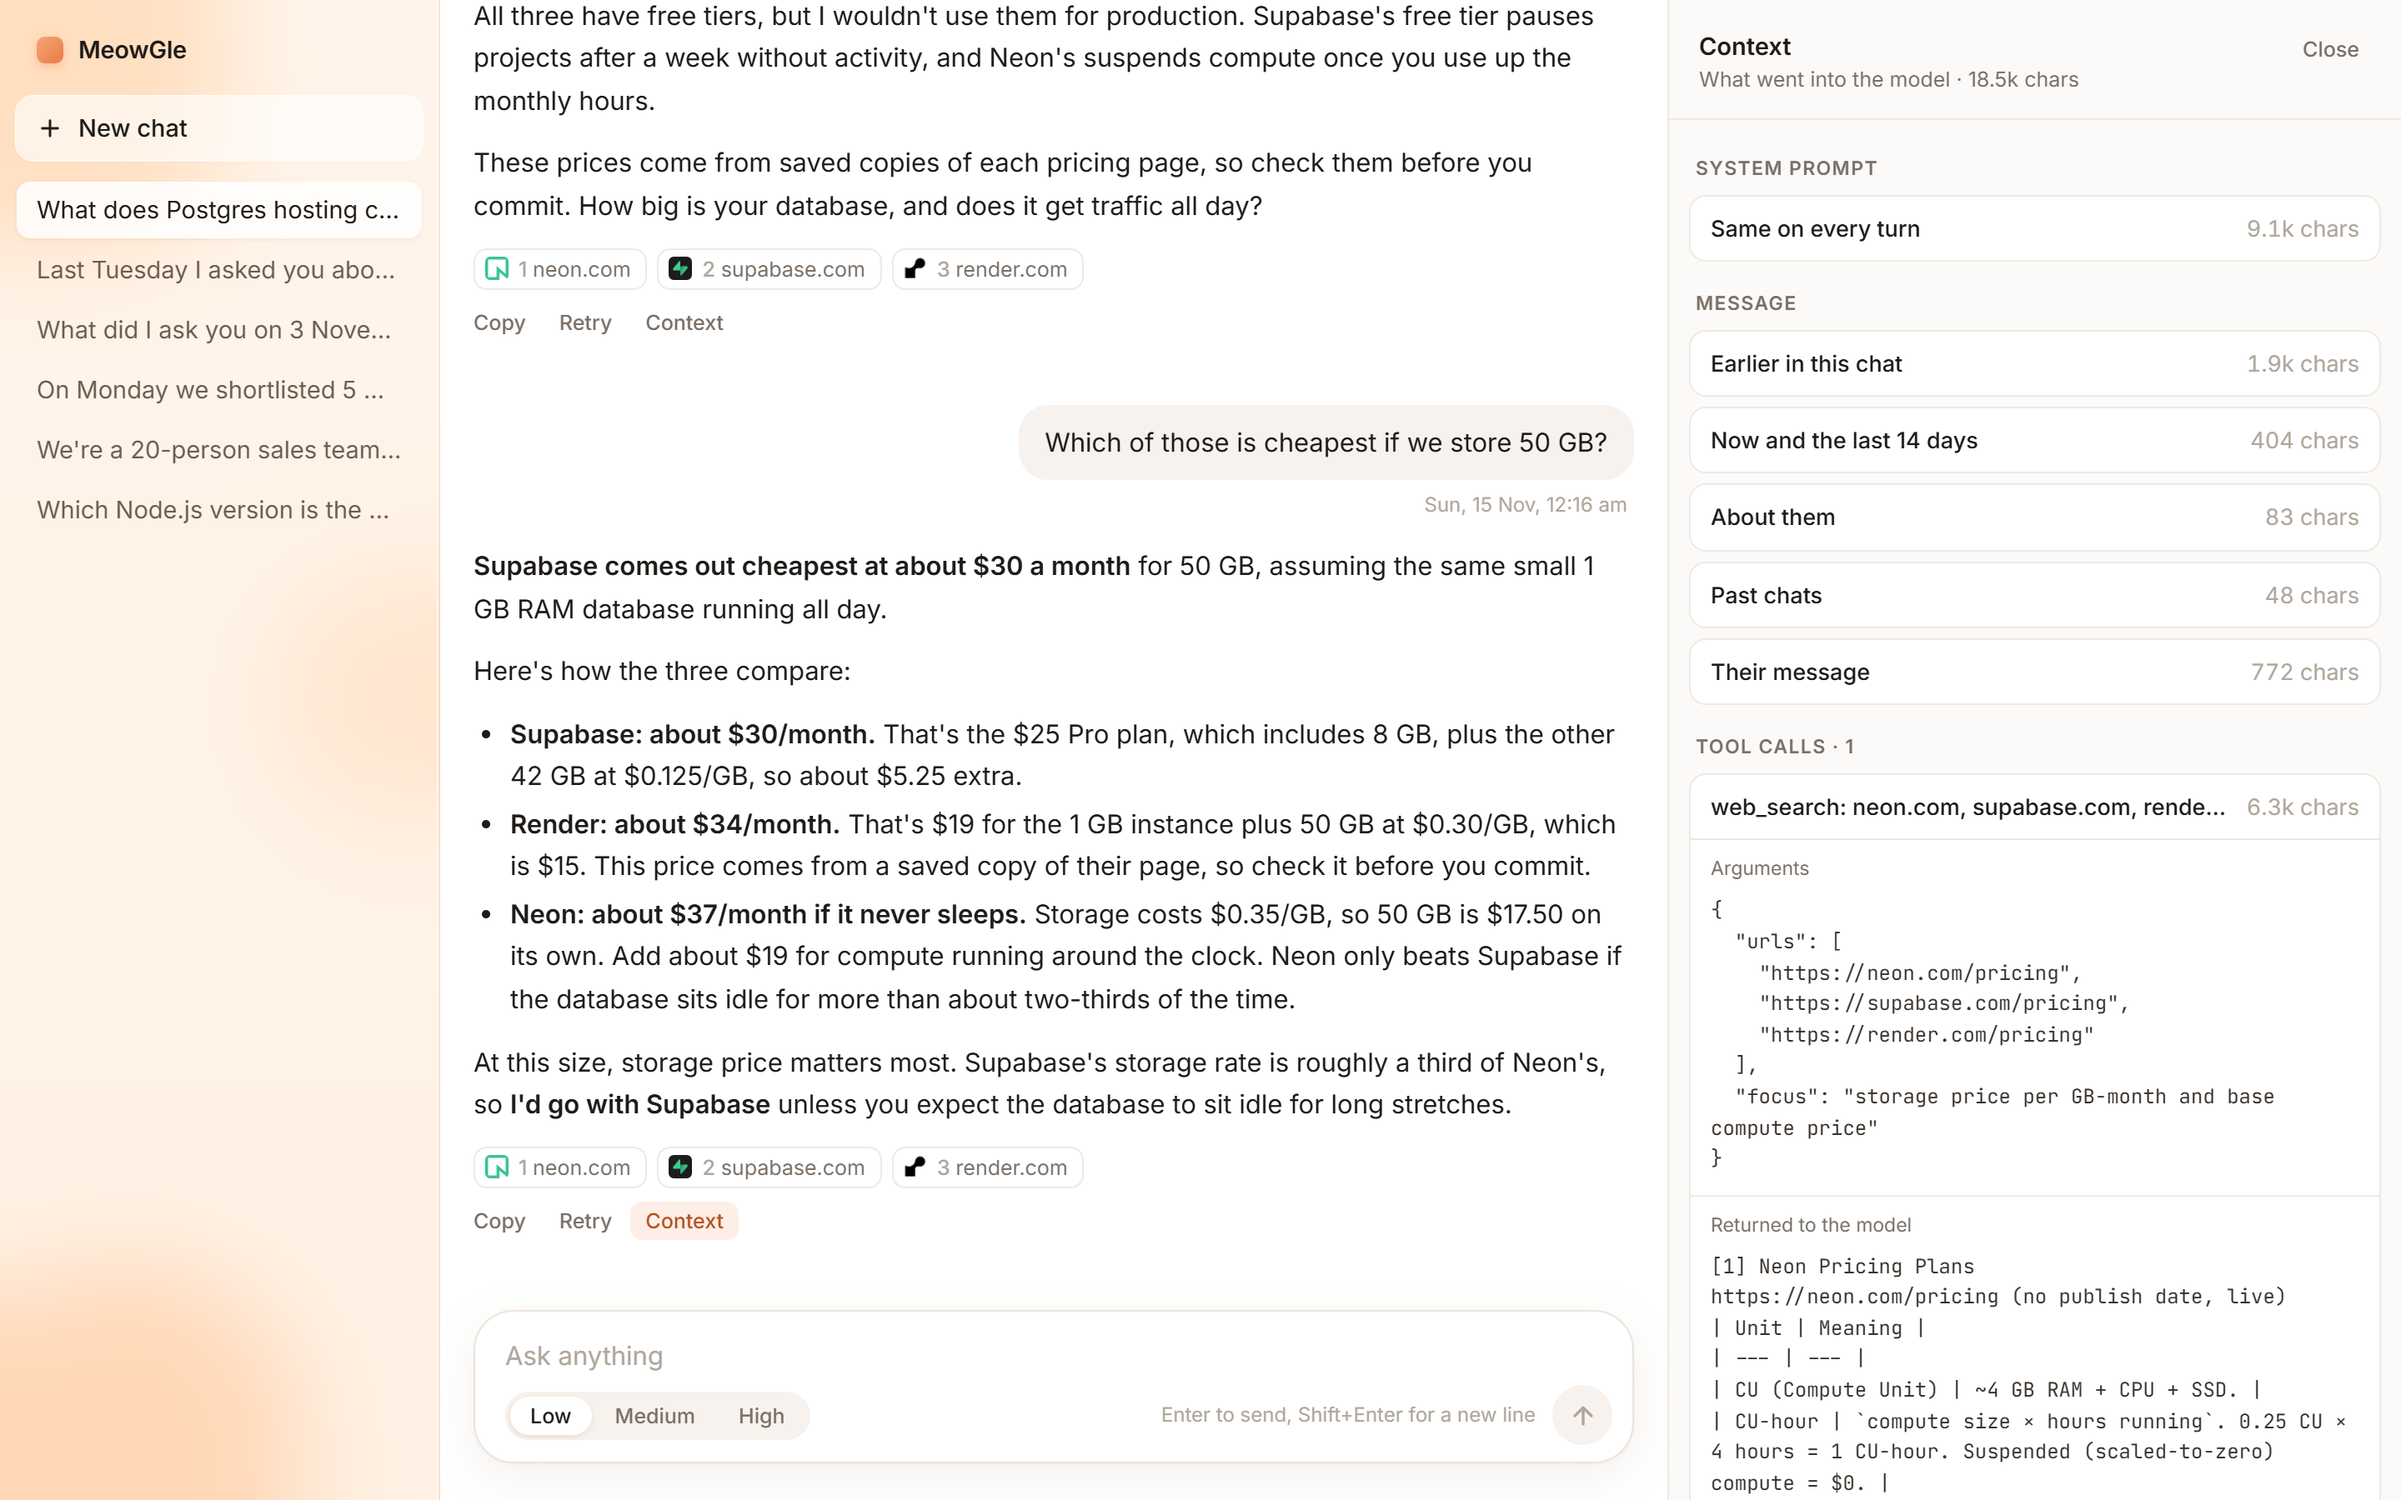
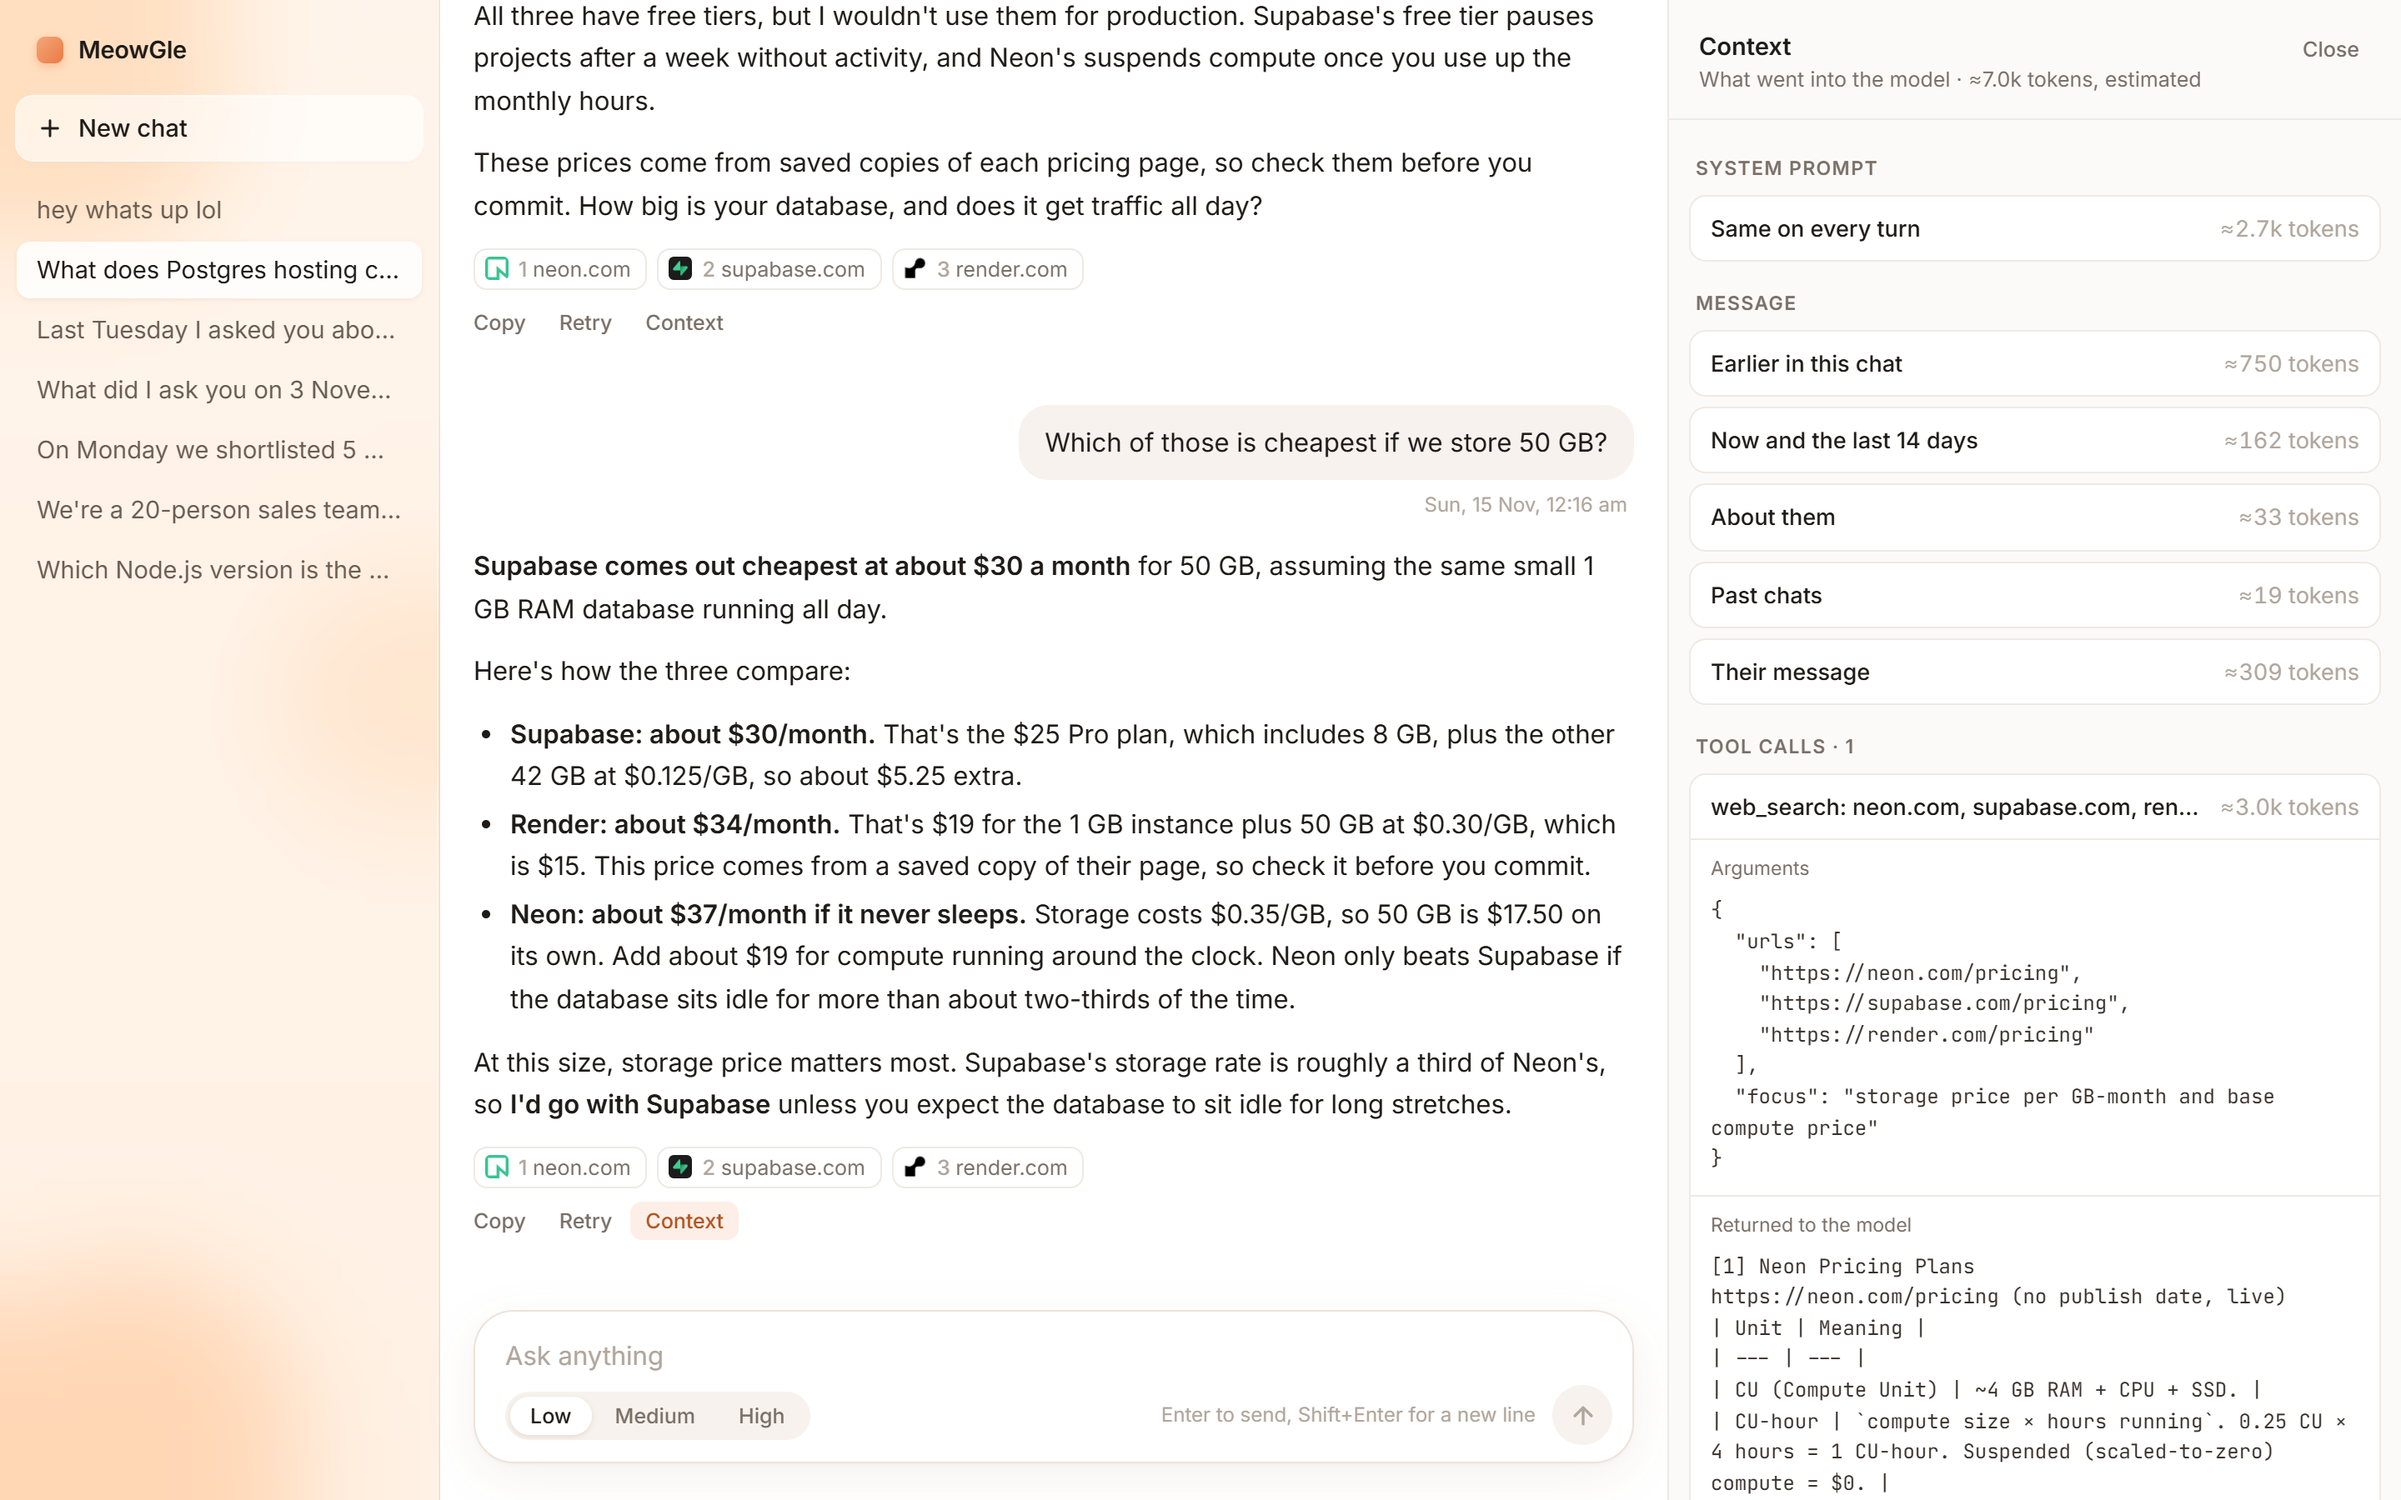
Context panel sizes in estimated tokens instead of chars
Ratios measured on claude-opus-5-5 against the CLI's reported input usage,
net of its fixed overhead: 3.3 chars per token for the system prompt, 2.5
for the message, 2.1 for tool output. A flat chars/4 undercounts by up to
half on tool output.

diff --git a/public/index.html b/public/index.html
@@ -1153,7 +1153,14 @@
         return sections;
       }
 
-      const chars = (n) => (n < 1000 ? `${n} chars` : `${(n / 1000).toFixed(1)}k chars`);
+      // Sizes are estimated tokens. The app has no Claude tokenizer, so they
+      // use chars-per-token ratios measured on claude-opus-5-5 against the
+      // CLI's reported input usage (15 Nov 2026). Prose packs the most chars
+      // per token; the date-heavy message fewer; tool output with tables and
+      // URLs the fewest.
+      const CHARS_PER_TOKEN = { system: 3.3, message: 2.5, tool: 2.1 };
+      const tokens = (text, kind) => Math.round(text.length / CHARS_PER_TOKEN[kind]);
+      const fmtTokens = (n) => `≈${n < 1000 ? n : `${(n / 1000).toFixed(1)}k`} tokens`;
 
       function block(title, size, parts, open = false) {
         const d = el('details');
@@ -1206,23 +1213,30 @@
         }
         const c = await res.json();
         const sections = promptSections(c.prompt);
-        const toolText = c.tools.reduce((n, t) => n + t.result.length, 0);
-        const total = c.system.length + c.prompt.length + toolText;
-        $('#ctx-sub').textContent = `What went into the model · ${chars(total)}`;
+        const total =
+          tokens(c.system, 'system') +
+          tokens(c.prompt, 'message') +
+          c.tools.reduce((n, t) => n + tokens(t.result, 'tool'), 0);
+        $('#ctx-sub').textContent = `What went into the model · ${fmtTokens(total)}, estimated`;
 
         const body = [
           el('div', 'group', 'System prompt'),
-          block('Same on every turn', chars(c.system.length), [[null, c.system]]),
+          block('Same on every turn', fmtTokens(tokens(c.system, 'system')), [[null, c.system]]),
           el('div', 'group', 'Message'),
           ...sections.map(([title, text]) =>
-            block(title, chars(text.length), [[null, text]], title === 'Their message')
+            block(
+              title,
+              fmtTokens(tokens(text, 'message')),
+              [[null, text]],
+              title === 'Their message'
+            )
           ),
           el('div', 'group', `Tool calls · ${c.tools.length}`),
         ];
         if (!c.tools.length) body.push(el('div', 'note', 'No tool calls this turn.'));
         for (const t of c.tools) {
           body.push(
-            block(toolTitle(t), chars(t.result.length), [
+            block(toolTitle(t), fmtTokens(tokens(t.result, 'tool')), [
               ['Arguments', JSON.stringify(t.args, null, 2)],
               ['Returned to the model', t.result],
             ])

diff --git a/README.md b/README.md
@@ -77,9 +77,9 @@ Type a question. While it works you see what it's doing: what it searched, how m
 
 ![The live trail: news searches since Monday for each of the five tools, and the five pricing pages it cited on Monday requested with a live crawl](docs/img/crm-working.png)
 
-Every answer has a **Context** button. It opens a panel on the right with exactly what went into the model for that turn: the system prompt, the message split into its parts (earlier in this chat, the date strip, what you've told it about yourself, past chats, your message), and every `web_search` call with its arguments and the text that came back. It's saved with the turn, so reopening an old chat shows it too. Turns asked before this was added have none.
+Every answer has a **Context** button. It opens a panel on the right with exactly what went into the model for that turn: the system prompt, the message split into its parts (earlier in this chat, the date strip, what you've told it about yourself, past chats, your message), and every `web_search` call with its arguments and the text that came back, each with its size in estimated tokens. It's saved with the turn, so reopening an old chat shows it too. Turns asked before this was added have none.
 
-![The context panel for a follow-up: the system prompt, each part of the message with its size, and the one web_search call with its arguments and what it returned](docs/img/context.png)
+![The context panel for a follow-up: the system prompt, each part of the message with its estimated tokens, and the one web_search call with its arguments and what it returned](docs/img/context.png)
 
 The effort toggle (low, medium, high) controls how much it checks, not how much it talks:
 

diff --git a/SPEC.md b/SPEC.md
@@ -233,7 +233,7 @@ Timezone: everything is stored in UTC and rendered in the request's `tz`. If `tz
 - The answer streams in as markdown. Keep the renderer tiny and inline: paragraphs, lists, bold, links, code.
 - `[n]` renders as a small clickable superscript. A sources row under the answer shows favicon, domain and title.
 - Sends `tz` from `Intl.DateTimeFormat().resolvedOptions().timeZone`.
-- A Context button under each answer opens a right-hand panel with that turn's `model_input`: the system prompt, the prompt split at the headings the app writes, and each tool call with its arguments and result, each collapsible with its size.
+- A Context button under each answer opens a right-hand panel with that turn's `model_input`: the system prompt, the prompt split at the headings the app writes, and each tool call with its arguments and result, each collapsible with its size in estimated tokens (chars-per-token ratios measured on claude-opus-5-5: 3.3 for the system prompt, 2.5 for the message, 2.1 for tool output).
 - No auth. The server listens on 127.0.0.1 only, and `POST /api/chat` requires `content-type: application/json`, so another site open in the browser can't trigger turns without a CORS preflight, which the server never answers.
 
 ## Tests (`node:test`, no network)
